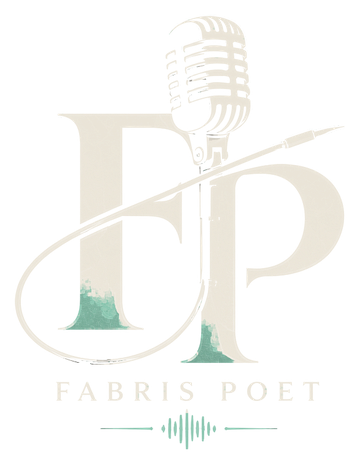
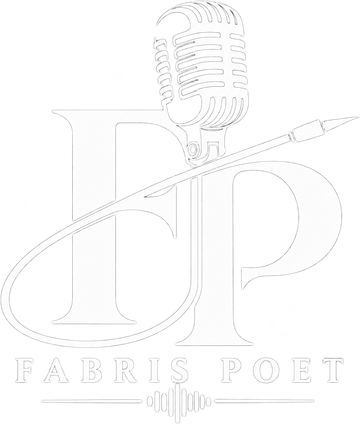
Update FabStudio branding

diff --git a/site/studio/sw.js b/site/studio/sw.js
@@ -1,7 +1,7 @@
 // FabStudio service worker: makes the app open offline.
 // Files are served from cache instantly and refreshed in the background,
 // so a new deploy shows up on the second open. Bump CACHE only to force a full reset.
-const CACHE = 'fabstudio-shell-v14';
+const CACHE = 'fabstudio-shell-v15';
 const SHELL = [
   '/studio/', '/studio/index.html', '/studio/manifest.webmanifest', '/studio/css/studio.css',
   '/studio/js/app.js', '/studio/js/db.js', '/studio/js/ui.js', '/studio/js/auth.js', '/studio/js/api.js',

diff --git a/site/sw.js b/site/sw.js
@@ -2,7 +2,7 @@
 // when someone opens it with no connection. It never stores poems, audio, video or API answers: everything else
 // goes straight to the network, so the live, reactions and comments behave exactly as before.
 // The Studio has its own service worker (/studio/sw.js) and is left alone here.
-const CACHE = 'fabris-public-v1';
+const CACHE = 'fabris-public-v2';
 const OFFLINE = '/offline.html';
 
 self.addEventListener('install', (e) => {

diff --git a/docs/UPDATE-6-NEW-LOGO.md b/docs/UPDATE-6-NEW-LOGO.md
@@ -1,0 +1,12 @@
+# Update 6: new Fabris Poet logo
+
+Unzip over the project root. Only image files, two service workers and this note change. No HTML, CSS or JS edits were needed because every page already points at these file names.
+
+- In-page mark (header, hero, auth, offline, poem share image, live scenes, Studio login/header/video/thumbnails): the emblem only (mic, FP, pen), square, transparent. The wording "Fabris Poet" already sits next to it on the pages.
+- Favicon, apple-touch and install icons (public site and Studio): the emblem on the dark brand background. Maskable icons keep it inside the safe zone.
+- `fabris-poet-logo.png`, `fabris-poet-mark-full.png`: full logo with the wording (not used by the code).
+- `fabris-poet-share.png`: full logo on the dark background, 1200x630 (poem share fallback).
+- `sw.js` cache `fabris-public-v1` -> `v2`, `studio/sw.js` cache `fabstudio-shell-v14` -> `v15`, so old logos are dropped.
+- Untouched: `fabris-poet-wave.png` (footer sound-wave strip).
+
+After deploying, favicons are cached hard by browsers; a hard refresh or reopening the tab shows the new one. An already installed home-screen icon only changes after reinstalling the app.
